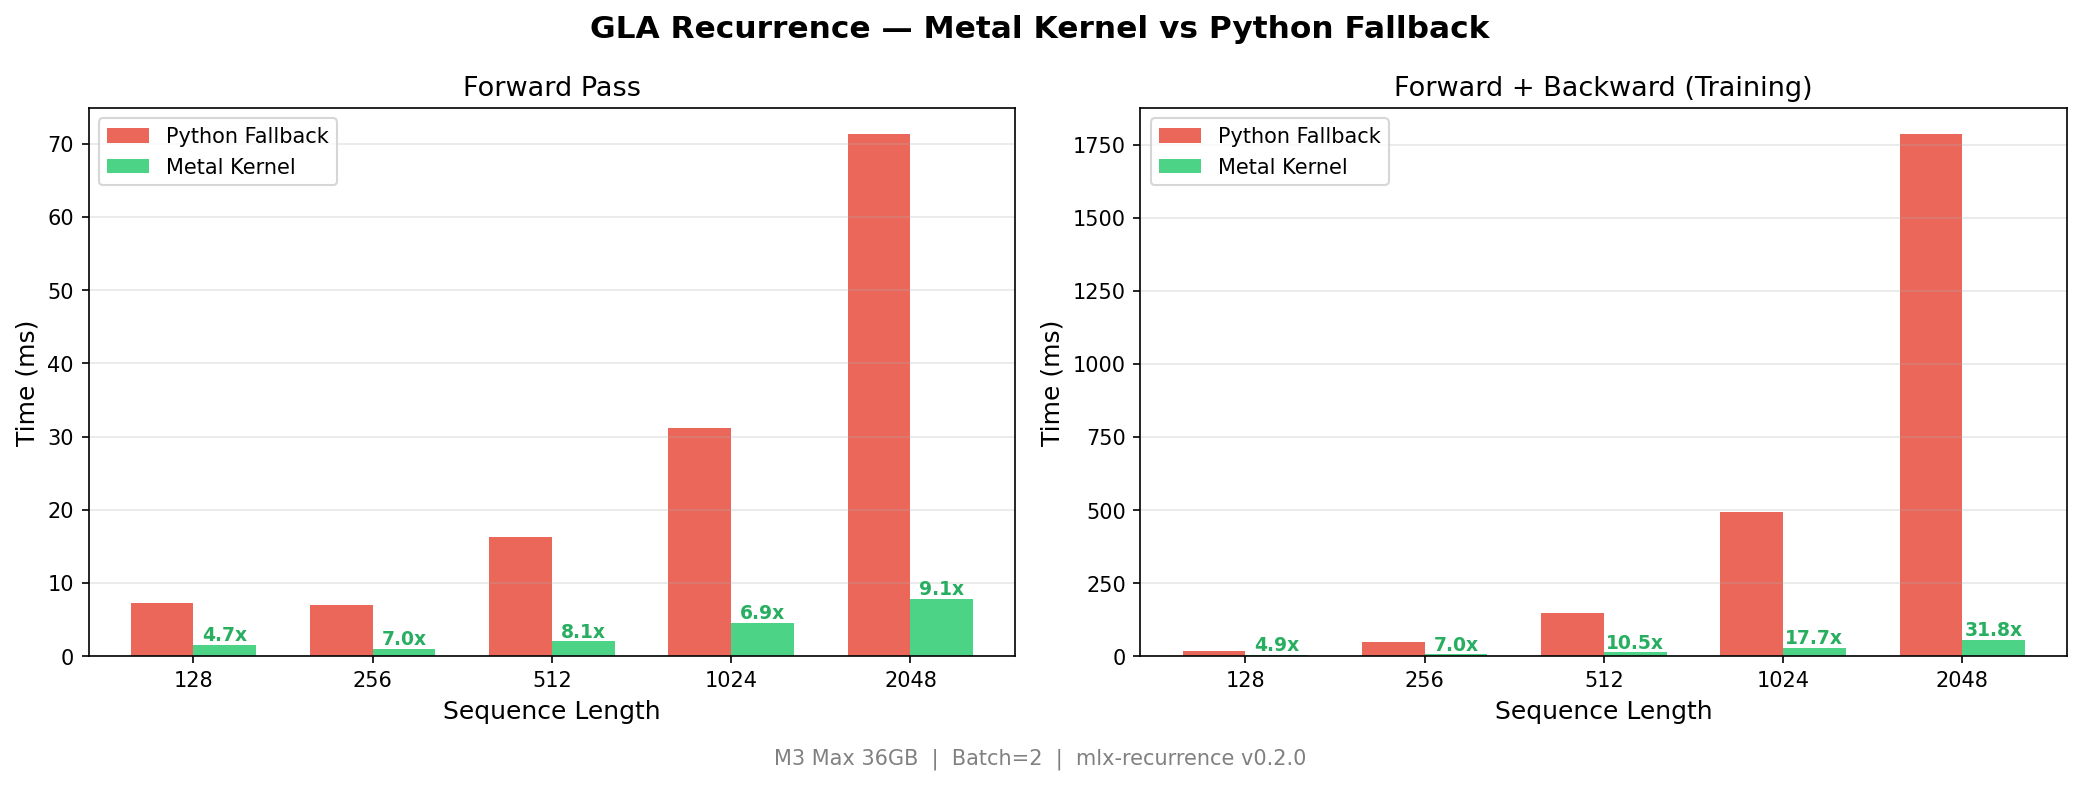
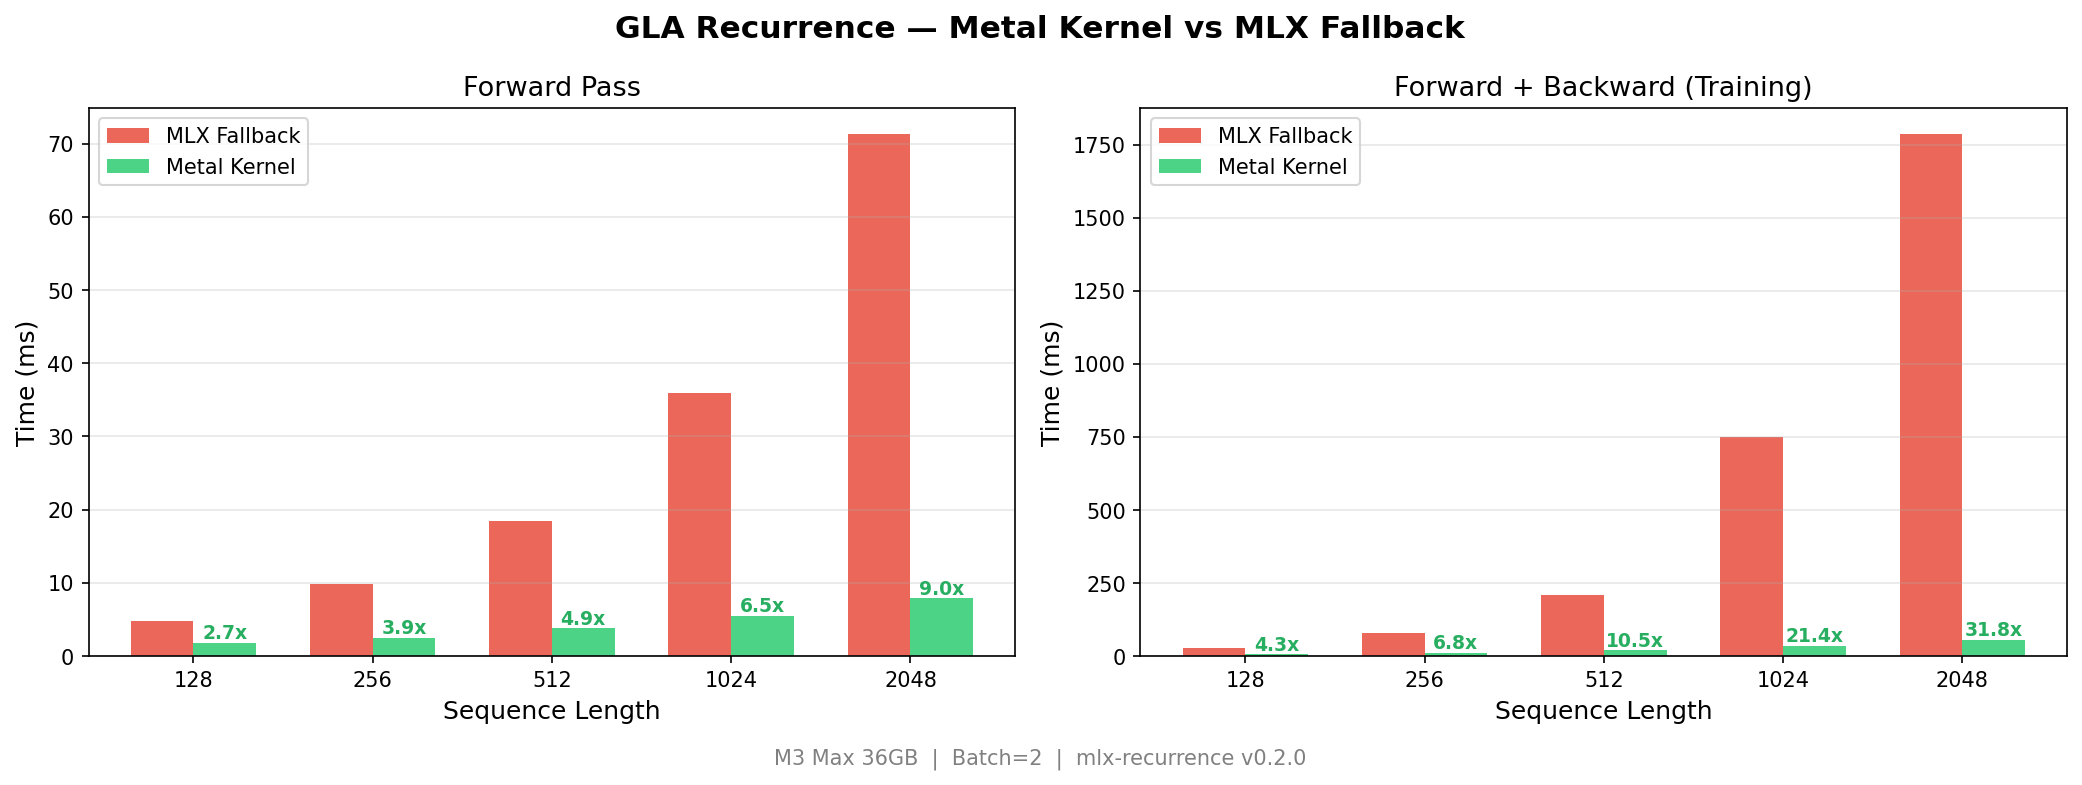
Clarify benchmark labels: kernel-level vs end-to-end speedups
- Rename "Python Fallback" to "MLX Fallback" in charts and table
- Add note: forward compares Metal kernel vs Python loop, backward
  compares Metal VJP vs chunked MLX autograd
- State end-to-end training speedup is ~3x wall-clock (not 19-32x)
- Regenerate chart PNGs with corrected labels

diff --git a/benchmarks/bench_chart.py b/benchmarks/bench_chart.py
@@ -192,7 +192,7 @@ def make_chart(seq_lens, fwd_metal, fwd_python, bwd_metal, bwd_python,
     width = 0.35
 
     # Forward
-    bars1 = ax1.bar(x - width/2, fwd_python, width, label='Python Fallback',
+    bars1 = ax1.bar(x - width/2, fwd_python, width, label='MLX Fallback',
                     color='#e74c3c', alpha=0.85)
     bars2 = ax1.bar(x + width/2, fwd_metal, width, label='Metal Kernel',
                     color='#2ecc71', alpha=0.85)
@@ -212,7 +212,7 @@ def make_chart(seq_lens, fwd_metal, fwd_python, bwd_metal, bwd_python,
                      color='#27ae60')
 
     # Backward
-    bars3 = ax2.bar(x - width/2, bwd_python, width, label='Python Fallback',
+    bars3 = ax2.bar(x - width/2, bwd_python, width, label='MLX Fallback',
                     color='#e74c3c', alpha=0.85)
     bars4 = ax2.bar(x + width/2, bwd_metal, width, label='Metal Kernel',
                     color='#2ecc71', alpha=0.85)
@@ -244,11 +244,11 @@ if __name__ == "__main__":
     gla_fm, gla_fp, gla_bm, gla_bp = bench_gla()
 
     make_chart(SEQ_LENS, ssm_fm, ssm_fp, ssm_bm, ssm_bp,
-               "SSM Selective Scan — Metal Kernel vs Python Fallback",
+               "SSM Selective Scan — Metal Kernel vs MLX Fallback",
                "benchmarks/ssm_benchmark.png")
 
     make_chart(SEQ_LENS, gla_fm, gla_fp, gla_bm, gla_bp,
-               "GLA Recurrence — Metal Kernel vs Python Fallback",
+               "GLA Recurrence — Metal Kernel vs MLX Fallback",
                "benchmarks/gla_benchmark.png")
 
     print("\nDone! Add these to your README:")

diff --git a/README.md b/README.md
@@ -86,10 +86,16 @@ the Metal kernels stay nearly flat while the Python fallback grows linearly.
 
 ### Summary (seq_len=2048)
 
-| Pass | SSM Metal | SSM Python | Speedup | GLA Metal | GLA Python | Speedup |
+| Pass | SSM Metal | SSM Fallback | Speedup | GLA Metal | GLA Fallback | Speedup |
 |------|-----------|------------|---------|-----------|------------|---------|
-| Forward | 10.8ms | 79.4ms | **7.3x** | 7.9ms | 71.3ms | **9.1x** |
-| Forward + Backward | 64.5ms | 1,224.7ms | **19.0x** | 56.2ms | 1,786.7ms | **31.8x** |
+| Forward (kernel vs Python loop) | 10.8ms | 79.4ms | **7.3x** | 7.9ms | 71.3ms | **9.1x** |
+| Fwd + Bwd (kernel vs chunked MLX autograd) | 64.5ms | 1,224.7ms | **19.0x** | 56.2ms | 1,786.7ms | **31.8x** |
+
+**Note on speedups:** Forward compares the fused Metal kernel against a Python `for`-loop
+over timesteps (one Metal dispatch per step). Forward + Backward compares the fused Metal
+VJP against MLX autograd through the chunked fallback (`selective_scan_chunked` /
+`gla_scan_chunked`). These are kernel-level isolations — end-to-end training speedup
+(including embedding, FFN, loss, optimizer) is approximately **3x** wall-clock.
 
 The backward pass speedup is critical for training — without fused Metal kernels,
 training SSM+GLA models on Apple Silicon is impractical at sequence lengths above 512.
